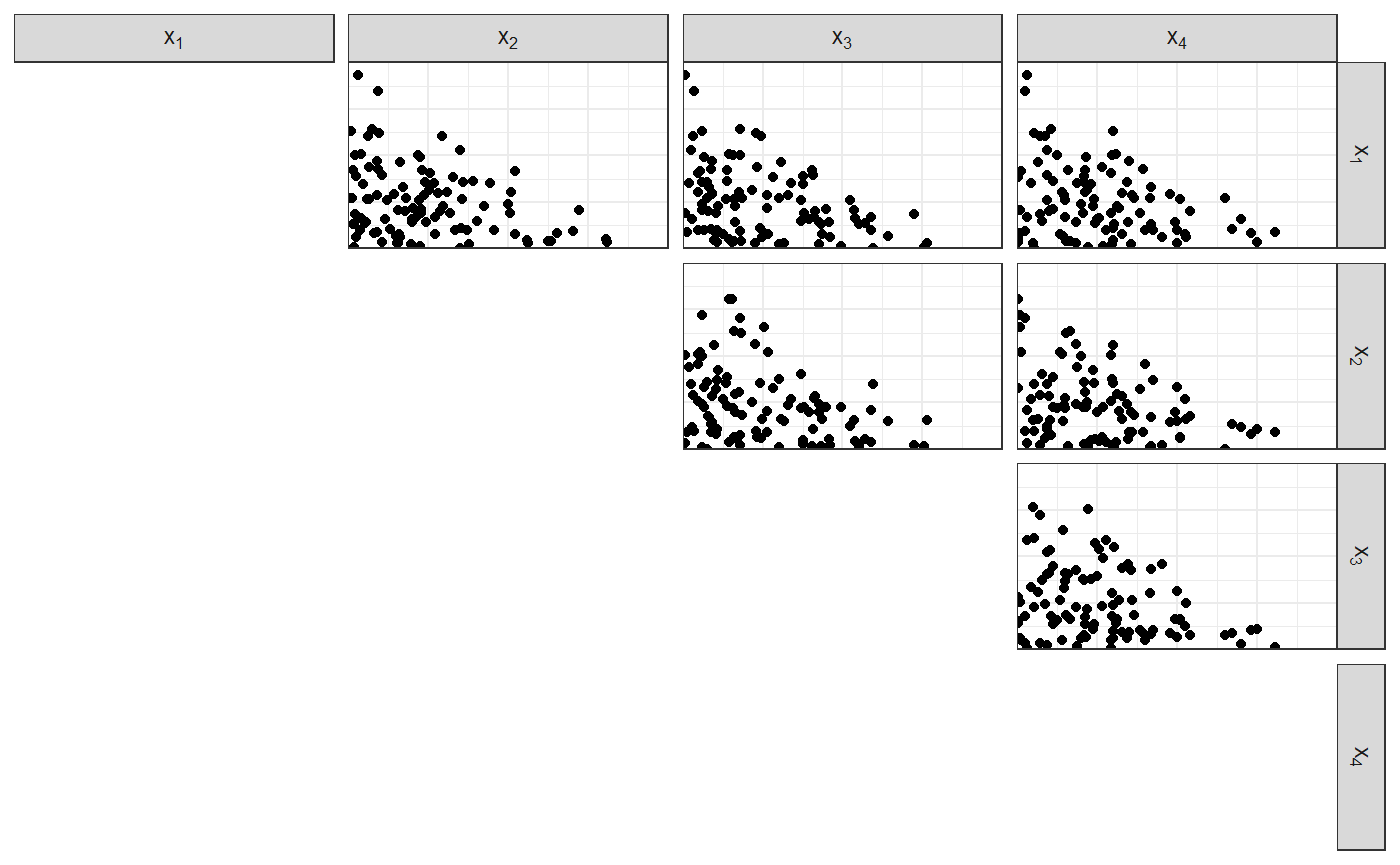
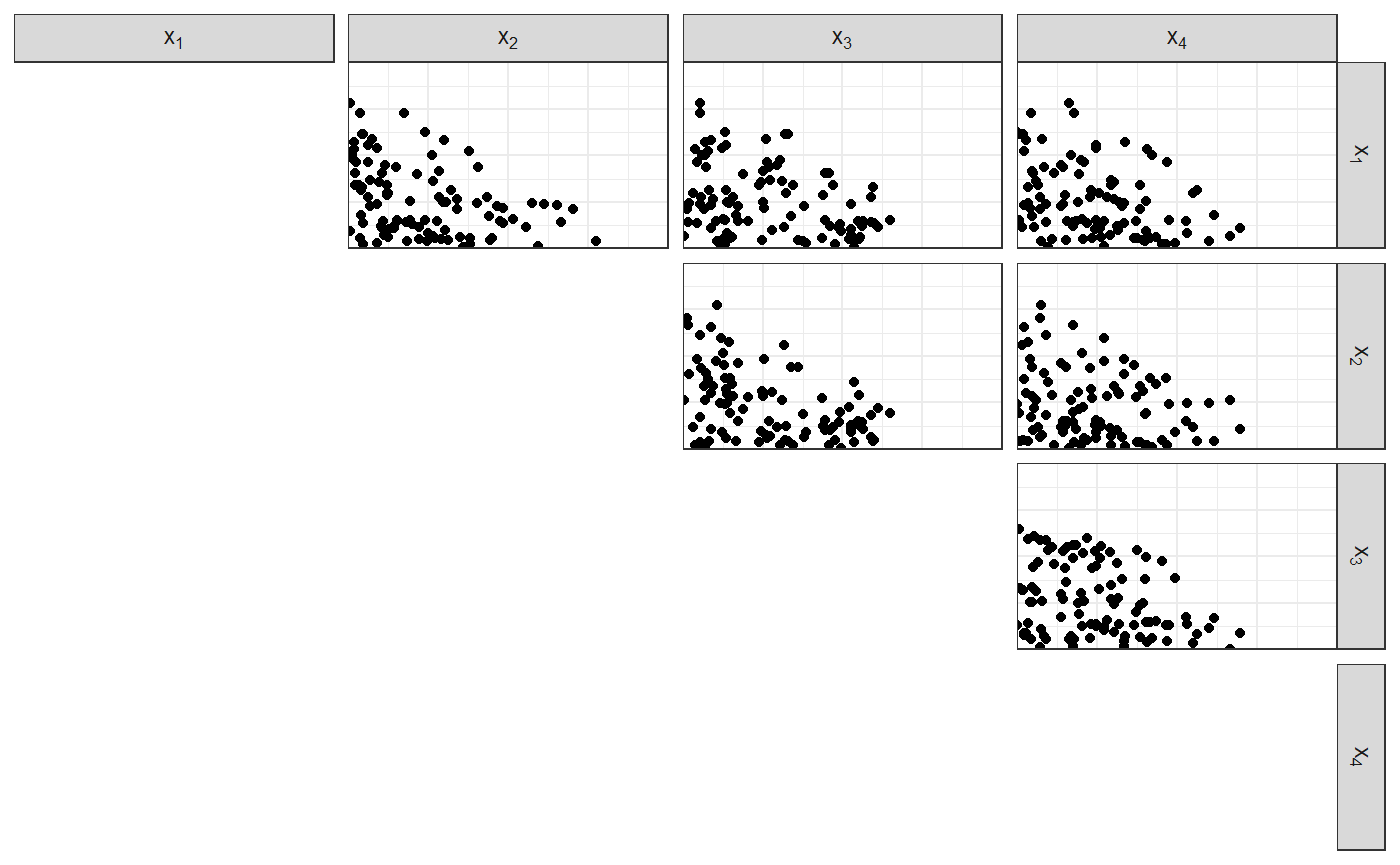
Finished updating vignette.

diff --git a/docs/articles/dirichletdirichlet-study.html b/docs/articles/dirichletdirichlet-study.html
@@ -89,7 +89,7 @@
       <h1>Dirichlet-Dirichlet study generation</h1>
                         <h4 class="author">Lorenzo Gaborini</h4>
             
-            <h4 class="date">2019-01-25</h4>
+            <h4 class="date">2019-01-26</h4>
       
       <small class="dont-index">Source: <a href="https://github.com/lgaborini/rsamplestudy/blob/master/vignettes/dirichletdirichlet-study.Rmd"><code>vignettes/dirichletdirichlet-study.Rmd</code></a></small>
       <div class="hidden name"><code>dirichletdirichlet-study.Rmd</code></div>
@@ -143,24 +143,24 @@ This vignette describes the Dirichlet-Dirichlet model.</p>
 <p>Notice that the hyperparameter is sampled, too (but it can be fixed).</p>
 <div class="sourceCode" id="cb2"><pre class="sourceCode r"><code class="sourceCode r"><a class="sourceLine" id="cb2-1" title="1"><span class="kw"><a href="https://www.rdocumentation.org/packages/utils/topics/head">head</a></span>(list_pop<span class="op">$</span>df_pop)</a>
 <a class="sourceLine" id="cb2-2" title="2"><span class="co">#&gt; # A tibble: 6 x 5</span></a>
-<a class="sourceLine" id="cb2-3" title="3"><span class="co">#&gt;   source `x[1]` `x[2]`   `x[3]`   `x[4]`</span></a>
-<a class="sourceLine" id="cb2-4" title="4"><span class="co">#&gt;    &lt;int&gt;  &lt;dbl&gt;  &lt;dbl&gt;    &lt;dbl&gt;    &lt;dbl&gt;</span></a>
-<a class="sourceLine" id="cb2-5" title="5"><span class="co">#&gt; 1      1      0  1.000 4.93e-17 2.21e-10</span></a>
-<a class="sourceLine" id="cb2-6" title="6"><span class="co">#&gt; 2      1      0  0.973 2.69e- 2 0.      </span></a>
-<a class="sourceLine" id="cb2-7" title="7"><span class="co">#&gt; 3      1      0  1.000 2.31e-12 0.      </span></a>
-<a class="sourceLine" id="cb2-8" title="8"><span class="co">#&gt; 4      1      0  1.000 3.26e- 6 0.      </span></a>
-<a class="sourceLine" id="cb2-9" title="9"><span class="co">#&gt; 5      1      0  0.450 5.50e- 1 0.      </span></a>
-<a class="sourceLine" id="cb2-10" title="10"><span class="co">#&gt; 6      1      0  1     2.53e-19 0.</span></a>
+<a class="sourceLine" id="cb2-3" title="3"><span class="co">#&gt;   source   `x[1]`   `x[2]` `x[3]` `x[4]`</span></a>
+<a class="sourceLine" id="cb2-4" title="4"><span class="co">#&gt;    &lt;int&gt;    &lt;dbl&gt;    &lt;dbl&gt;  &lt;dbl&gt;  &lt;dbl&gt;</span></a>
+<a class="sourceLine" id="cb2-5" title="5"><span class="co">#&gt; 1      1 1.56e-11 0.101     0.899      0</span></a>
+<a class="sourceLine" id="cb2-6" title="6"><span class="co">#&gt; 2      1 1.23e- 5 0.273     0.727      0</span></a>
+<a class="sourceLine" id="cb2-7" title="7"><span class="co">#&gt; 3      1 6.34e- 7 0.0700    0.930      0</span></a>
+<a class="sourceLine" id="cb2-8" title="8"><span class="co">#&gt; 4      1 1.59e- 4 0.000150  1.000      0</span></a>
+<a class="sourceLine" id="cb2-9" title="9"><span class="co">#&gt; 5      1 8.93e- 1 0.000673  0.106      0</span></a>
+<a class="sourceLine" id="cb2-10" title="10"><span class="co">#&gt; 6      1 3.75e- 5 0.612     0.388      0</span></a>
 <a class="sourceLine" id="cb2-11" title="11"><span class="kw"><a href="https://www.rdocumentation.org/packages/utils/topics/head">head</a></span>(list_pop<span class="op">$</span>df_sources)</a>
 <a class="sourceLine" id="cb2-12" title="12"><span class="co">#&gt; # A tibble: 6 x 5</span></a>
-<a class="sourceLine" id="cb2-13" title="13"><span class="co">#&gt;   source   `theta[1]` `theta[2]` `theta[3]` `theta[4]`</span></a>
-<a class="sourceLine" id="cb2-14" title="14"><span class="co">#&gt;    &lt;int&gt;        &lt;dbl&gt;      &lt;dbl&gt;      &lt;dbl&gt;      &lt;dbl&gt;</span></a>
-<a class="sourceLine" id="cb2-15" title="15"><span class="co">#&gt; 1      1 0.0000000839    0.937     0.0625    0.0000895</span></a>
-<a class="sourceLine" id="cb2-16" title="16"><span class="co">#&gt; 2      2 0.328           0.658     0.000180  0.0135   </span></a>
-<a class="sourceLine" id="cb2-17" title="17"><span class="co">#&gt; 3      3 0.00240         0.00178   0.180     0.815    </span></a>
-<a class="sourceLine" id="cb2-18" title="18"><span class="co">#&gt; 4      4 0.0769          0.200     0.00502   0.718    </span></a>
-<a class="sourceLine" id="cb2-19" title="19"><span class="co">#&gt; 5      5 0.297           0.0176    0.232     0.454    </span></a>
-<a class="sourceLine" id="cb2-20" title="20"><span class="co">#&gt; 6      6 0.0000816       0.330     0.670     0.0000264</span></a></code></pre></div>
+<a class="sourceLine" id="cb2-13" title="13"><span class="co">#&gt;   source `theta[1]` `theta[2]` `theta[3]`  `theta[4]`</span></a>
+<a class="sourceLine" id="cb2-14" title="14"><span class="co">#&gt;    &lt;int&gt;      &lt;dbl&gt;      &lt;dbl&gt;      &lt;dbl&gt;       &lt;dbl&gt;</span></a>
+<a class="sourceLine" id="cb2-15" title="15"><span class="co">#&gt; 1      1  0.0945       0.213      0.693   0.000165   </span></a>
+<a class="sourceLine" id="cb2-16" title="16"><span class="co">#&gt; 2      2  0.0242       0.00908    0.967   0.000000843</span></a>
+<a class="sourceLine" id="cb2-17" title="17"><span class="co">#&gt; 3      3  0.0000997    0.595      0.386   0.0188     </span></a>
+<a class="sourceLine" id="cb2-18" title="18"><span class="co">#&gt; 4      4  0.00448      0.172      0.824   0.00000151 </span></a>
+<a class="sourceLine" id="cb2-19" title="19"><span class="co">#&gt; 5      5  0.00946      0.988      0.00260 0.00000246 </span></a>
+<a class="sourceLine" id="cb2-20" title="20"><span class="co">#&gt; 6      6  0.0716       0.0278     0.877   0.0232</span></a></code></pre></div>
 </div>
 <div id="hyperparameters" class="section level2">
 <h2 class="hasAnchor">
@@ -187,33 +187,33 @@ This is generically done using <code>make_dataset_splits</code>:</p>
 <a class="sourceLine" id="cb4-8" title="8"><span class="co">#&gt; [5] "df_questioned"  "df_background"</span></a></code></pre></div>
 <div class="sourceCode" id="cb5"><pre class="sourceCode r"><code class="sourceCode r"><a class="sourceLine" id="cb5-1" title="1"><span class="kw"><a href="https://www.rdocumentation.org/packages/utils/topics/head">head</a></span>(list_samples<span class="op">$</span>df_reference)</a>
 <a class="sourceLine" id="cb5-2" title="2"><span class="co">#&gt; # A tibble: 6 x 5</span></a>
-<a class="sourceLine" id="cb5-3" title="3"><span class="co">#&gt;   source    `x[1]` `x[2]`   `x[3]`        `x[4]`</span></a>
-<a class="sourceLine" id="cb5-4" title="4"><span class="co">#&gt;    &lt;int&gt;     &lt;dbl&gt;  &lt;dbl&gt;    &lt;dbl&gt;         &lt;dbl&gt;</span></a>
-<a class="sourceLine" id="cb5-5" title="5"><span class="co">#&gt; 1     19 7.68e-213  0.994 4.85e-32 0.00573      </span></a>
-<a class="sourceLine" id="cb5-6" title="6"><span class="co">#&gt; 2     19 1.41e-140  0.995 1.36e-42 0.00460      </span></a>
-<a class="sourceLine" id="cb5-7" title="7"><span class="co">#&gt; 3     19 6.58e-182  0.986 3.30e-28 0.0136       </span></a>
-<a class="sourceLine" id="cb5-8" title="8"><span class="co">#&gt; 4     19 0.         1.000 4.68e-22 0.0000965    </span></a>
-<a class="sourceLine" id="cb5-9" title="9"><span class="co">#&gt; 5     19 5.17e- 54  0.929 1.61e-28 0.0707       </span></a>
-<a class="sourceLine" id="cb5-10" title="10"><span class="co">#&gt; 6     19 1.98e-179  1.000 1.59e-11 0.00000000735</span></a>
+<a class="sourceLine" id="cb5-3" title="3"><span class="co">#&gt;   source  `x[1]`    `x[2]` `x[3]`    `x[4]`</span></a>
+<a class="sourceLine" id="cb5-4" title="4"><span class="co">#&gt;    &lt;int&gt;   &lt;dbl&gt;     &lt;dbl&gt;  &lt;dbl&gt;     &lt;dbl&gt;</span></a>
+<a class="sourceLine" id="cb5-5" title="5"><span class="co">#&gt; 1     13 0.149   9.13e-  5  0.825 0.0263   </span></a>
+<a class="sourceLine" id="cb5-6" title="6"><span class="co">#&gt; 2     13 0.360   4.50e-201  0.585 0.0542   </span></a>
+<a class="sourceLine" id="cb5-7" title="7"><span class="co">#&gt; 3     13 0.271   6.14e- 11  0.729 0.000356 </span></a>
+<a class="sourceLine" id="cb5-8" title="8"><span class="co">#&gt; 4     13 0.00334 3.55e- 79  0.652 0.345    </span></a>
+<a class="sourceLine" id="cb5-9" title="9"><span class="co">#&gt; 5     13 0.263   7.32e-141  0.732 0.00489  </span></a>
+<a class="sourceLine" id="cb5-10" title="10"><span class="co">#&gt; 6     13 0.116   5.35e- 41  0.884 0.0000553</span></a>
 <a class="sourceLine" id="cb5-11" title="11"><span class="kw"><a href="https://www.rdocumentation.org/packages/utils/topics/head">head</a></span>(list_samples<span class="op">$</span>df_questioned)</a>
 <a class="sourceLine" id="cb5-12" title="12"><span class="co">#&gt; # A tibble: 5 x 5</span></a>
-<a class="sourceLine" id="cb5-13" title="13"><span class="co">#&gt;   source   `x[1]`   `x[2]` `x[3]`   `x[4]`</span></a>
-<a class="sourceLine" id="cb5-14" title="14"><span class="co">#&gt;    &lt;int&gt;    &lt;dbl&gt;    &lt;dbl&gt;  &lt;dbl&gt;    &lt;dbl&gt;</span></a>
-<a class="sourceLine" id="cb5-15" title="15"><span class="co">#&gt; 1      8 4.11e- 1 9.62e- 3 0.579  0.000472</span></a>
-<a class="sourceLine" id="cb5-16" title="16"><span class="co">#&gt; 2     13 8.51e- 2 1.45e- 7 0.0390 0.876   </span></a>
-<a class="sourceLine" id="cb5-17" title="17"><span class="co">#&gt; 3     13 4.20e- 1 1.63e-28 0.578  0.00230 </span></a>
-<a class="sourceLine" id="cb5-18" title="18"><span class="co">#&gt; 4     17 1.05e- 1 6.15e- 2 0      0.834   </span></a>
-<a class="sourceLine" id="cb5-19" title="19"><span class="co">#&gt; 5     18 5.58e-33 2.96e- 1 0.704  0</span></a>
+<a class="sourceLine" id="cb5-13" title="13"><span class="co">#&gt;   source   `x[1]`    `x[2]`    `x[3]` `x[4]`</span></a>
+<a class="sourceLine" id="cb5-14" title="14"><span class="co">#&gt;    &lt;int&gt;    &lt;dbl&gt;     &lt;dbl&gt;     &lt;dbl&gt;  &lt;dbl&gt;</span></a>
+<a class="sourceLine" id="cb5-15" title="15"><span class="co">#&gt; 1      4 1.13e-74  4.13e- 6 10.00e- 1  0    </span></a>
+<a class="sourceLine" id="cb5-16" title="16"><span class="co">#&gt; 2      5 5.10e- 8 10.00e- 1  2.52e-38  0    </span></a>
+<a class="sourceLine" id="cb5-17" title="17"><span class="co">#&gt; 3     14 1.02e- 6  3.37e- 2  9.66e- 1  0    </span></a>
+<a class="sourceLine" id="cb5-18" title="18"><span class="co">#&gt; 4     15 0.        3.22e-71  8.07e- 1  0.193</span></a>
+<a class="sourceLine" id="cb5-19" title="19"><span class="co">#&gt; 5     19 9.99e- 1  9.49e-44  8.86e- 4  0</span></a>
 <a class="sourceLine" id="cb5-20" title="20"><span class="kw"><a href="https://www.rdocumentation.org/packages/utils/topics/head">head</a></span>(list_samples<span class="op">$</span>df_background)</a>
 <a class="sourceLine" id="cb5-21" title="21"><span class="co">#&gt; # A tibble: 6 x 5</span></a>
-<a class="sourceLine" id="cb5-22" title="22"><span class="co">#&gt;   source `x[1]` `x[2]`   `x[3]`   `x[4]`</span></a>
-<a class="sourceLine" id="cb5-23" title="23"><span class="co">#&gt;    &lt;int&gt;  &lt;dbl&gt;  &lt;dbl&gt;    &lt;dbl&gt;    &lt;dbl&gt;</span></a>
-<a class="sourceLine" id="cb5-24" title="24"><span class="co">#&gt; 1      1      0  1.000 4.93e-17 2.21e-10</span></a>
-<a class="sourceLine" id="cb5-25" title="25"><span class="co">#&gt; 2      1      0  0.973 2.69e- 2 0.      </span></a>
-<a class="sourceLine" id="cb5-26" title="26"><span class="co">#&gt; 3      1      0  1.000 2.31e-12 0.      </span></a>
-<a class="sourceLine" id="cb5-27" title="27"><span class="co">#&gt; 4      1      0  1.000 3.26e- 6 0.      </span></a>
-<a class="sourceLine" id="cb5-28" title="28"><span class="co">#&gt; 5      1      0  0.450 5.50e- 1 0.      </span></a>
-<a class="sourceLine" id="cb5-29" title="29"><span class="co">#&gt; 6      1      0  1     2.53e-19 0.</span></a></code></pre></div>
+<a class="sourceLine" id="cb5-22" title="22"><span class="co">#&gt;   source   `x[1]`   `x[2]` `x[3]` `x[4]`</span></a>
+<a class="sourceLine" id="cb5-23" title="23"><span class="co">#&gt;    &lt;int&gt;    &lt;dbl&gt;    &lt;dbl&gt;  &lt;dbl&gt;  &lt;dbl&gt;</span></a>
+<a class="sourceLine" id="cb5-24" title="24"><span class="co">#&gt; 1      1 1.56e-11 0.101     0.899      0</span></a>
+<a class="sourceLine" id="cb5-25" title="25"><span class="co">#&gt; 2      1 1.23e- 5 0.273     0.727      0</span></a>
+<a class="sourceLine" id="cb5-26" title="26"><span class="co">#&gt; 3      1 6.34e- 7 0.0700    0.930      0</span></a>
+<a class="sourceLine" id="cb5-27" title="27"><span class="co">#&gt; 4      1 1.59e- 4 0.000150  1.000      0</span></a>
+<a class="sourceLine" id="cb5-28" title="28"><span class="co">#&gt; 5      1 8.93e- 1 0.000673  0.106      0</span></a>
+<a class="sourceLine" id="cb5-29" title="29"><span class="co">#&gt; 6      1 3.75e- 5 0.612     0.388      0</span></a></code></pre></div>
 <div id="source-parameters" class="section level3">
 <h3 class="hasAnchor">
 <a href="#source-parameters" class="anchor"></a>Source parameters</h3>

diff --git a/docs/articles/dirichlet-distribution.html b/docs/articles/dirichlet-distribution.html
@@ -89,7 +89,7 @@
       <h1>Dirichlet distribution tools</h1>
                         <h4 class="author">Lorenzo Gaborini</h4>
             
-            <h4 class="date">2019-01-25</h4>
+            <h4 class="date">2019-01-26</h4>
       
       <small class="dont-index">Source: <a href="https://github.com/lgaborini/rsamplestudy/blob/master/vignettes/dirichlet-distribution.Rmd"><code>vignettes/dirichlet-distribution.Rmd</code></a></small>
       <div class="hidden name"><code>dirichlet-distribution.Rmd</code></div>
@@ -151,14 +151,14 @@ In other words, <span class="math inline">\(\boldsymbol{X} \in \text{Simplex}{(p
 <div class="sourceCode" id="cb2"><pre class="sourceCode r"><code class="sourceCode r"><a class="sourceLine" id="cb2-1" title="1">df_diri &lt;-<span class="st"> </span><span class="kw"><a href="../reference/fun_rdirichlet.html">fun_rdirichlet</a></span>(n, alpha)</a>
 <a class="sourceLine" id="cb2-2" title="2"><span class="kw"><a href="https://www.rdocumentation.org/packages/utils/topics/head">head</a></span>(df_diri)</a>
 <a class="sourceLine" id="cb2-3" title="3"><span class="co">#&gt; # A tibble: 6 x 4</span></a>
-<a class="sourceLine" id="cb2-4" title="4"><span class="co">#&gt;    `x[1]`   `x[2]` `x[3]`   `x[4]`</span></a>
-<a class="sourceLine" id="cb2-5" title="5"><span class="co">#&gt;     &lt;dbl&gt;    &lt;dbl&gt;  &lt;dbl&gt;    &lt;dbl&gt;</span></a>
-<a class="sourceLine" id="cb2-6" title="6"><span class="co">#&gt; 1 0.0319  2.45e- 1  0.714 9.39e- 3</span></a>
-<a class="sourceLine" id="cb2-7" title="7"><span class="co">#&gt; 2 0.0960  1.14e- 8  0.875 2.93e- 2</span></a>
-<a class="sourceLine" id="cb2-8" title="8"><span class="co">#&gt; 3 0.0348  4.09e- 4  0.965 2.28e- 9</span></a>
-<a class="sourceLine" id="cb2-9" title="9"><span class="co">#&gt; 4 0.00991 2.11e-20  0.990 2.73e-10</span></a>
-<a class="sourceLine" id="cb2-10" title="10"><span class="co">#&gt; 5 0.316   7.30e-12  0.684 4.34e- 8</span></a>
-<a class="sourceLine" id="cb2-11" title="11"><span class="co">#&gt; 6 0.0510  3.72e- 7  0.949 1.02e- 4</span></a></code></pre></div>
+<a class="sourceLine" id="cb2-4" title="4"><span class="co">#&gt;     `x[1]`   `x[2]` `x[3]`   `x[4]`</span></a>
+<a class="sourceLine" id="cb2-5" title="5"><span class="co">#&gt;      &lt;dbl&gt;    &lt;dbl&gt;  &lt;dbl&gt;    &lt;dbl&gt;</span></a>
+<a class="sourceLine" id="cb2-6" title="6"><span class="co">#&gt; 1 0.117    7.54e-14  0.652 2.31e- 1</span></a>
+<a class="sourceLine" id="cb2-7" title="7"><span class="co">#&gt; 2 0.00419  7.90e- 4  0.995 1.99e-23</span></a>
+<a class="sourceLine" id="cb2-8" title="8"><span class="co">#&gt; 3 0.000347 4.85e- 8  0.975 2.42e- 2</span></a>
+<a class="sourceLine" id="cb2-9" title="9"><span class="co">#&gt; 4 0.00716  4.98e-10  0.993 2.23e- 7</span></a>
+<a class="sourceLine" id="cb2-10" title="10"><span class="co">#&gt; 5 0.0800   3.57e- 3  0.501 4.15e- 1</span></a>
+<a class="sourceLine" id="cb2-11" title="11"><span class="co">#&gt; 6 0.185    1.94e- 2  0.783 1.29e- 2</span></a></code></pre></div>
 <pre><code>#&gt; Loading required namespace: GGally</code></pre>
 <p><img src="dirichlet-distribution_files/figure-html/sym-sens-plot-comp-1.png" width="700"></p>
 <div id="uniform-sampling" class="section level3">
@@ -172,14 +172,14 @@ In other words, <span class="math inline">\(\boldsymbol{X} \in \text{Simplex}{(p
 <div class="sourceCode" id="cb5"><pre class="sourceCode r"><code class="sourceCode r"><a class="sourceLine" id="cb5-1" title="1">df_diri &lt;-<span class="st"> </span><span class="kw"><a href="../reference/fun_rdirichlet.html">fun_rdirichlet</a></span>(n, alpha)</a>
 <a class="sourceLine" id="cb5-2" title="2"><span class="kw"><a href="https://www.rdocumentation.org/packages/utils/topics/head">head</a></span>(df_diri)</a>
 <a class="sourceLine" id="cb5-3" title="3"><span class="co">#&gt; # A tibble: 6 x 4</span></a>
-<a class="sourceLine" id="cb5-4" title="4"><span class="co">#&gt;   `x[1]`   `x[2]` `x[3]` `x[4]`</span></a>
-<a class="sourceLine" id="cb5-5" title="5"><span class="co">#&gt;    &lt;dbl&gt;    &lt;dbl&gt;  &lt;dbl&gt;  &lt;dbl&gt;</span></a>
-<a class="sourceLine" id="cb5-6" title="6"><span class="co">#&gt; 1 0.0989 0.332    0.0673  0.501</span></a>
-<a class="sourceLine" id="cb5-7" title="7"><span class="co">#&gt; 2 0.0211 0.196    0.427   0.357</span></a>
-<a class="sourceLine" id="cb5-8" title="8"><span class="co">#&gt; 3 0.0990 0.370    0.106   0.425</span></a>
-<a class="sourceLine" id="cb5-9" title="9"><span class="co">#&gt; 4 0.157  0.115    0.0286  0.700</span></a>
-<a class="sourceLine" id="cb5-10" title="10"><span class="co">#&gt; 5 0.0969 0.0357   0.588   0.279</span></a>
-<a class="sourceLine" id="cb5-11" title="11"><span class="co">#&gt; 6 0.270  0.000200 0.0774  0.652</span></a></code></pre></div>
+<a class="sourceLine" id="cb5-4" title="4"><span class="co">#&gt;   `x[1]` `x[2]` `x[3]` `x[4]`</span></a>
+<a class="sourceLine" id="cb5-5" title="5"><span class="co">#&gt;    &lt;dbl&gt;  &lt;dbl&gt;  &lt;dbl&gt;  &lt;dbl&gt;</span></a>
+<a class="sourceLine" id="cb5-6" title="6"><span class="co">#&gt; 1 0.0737 0.110   0.525 0.291 </span></a>
+<a class="sourceLine" id="cb5-7" title="7"><span class="co">#&gt; 2 0.289  0.122   0.438 0.151 </span></a>
+<a class="sourceLine" id="cb5-8" title="8"><span class="co">#&gt; 3 0.251  0.305   0.252 0.192 </span></a>
+<a class="sourceLine" id="cb5-9" title="9"><span class="co">#&gt; 4 0.113  0.220   0.612 0.0548</span></a>
+<a class="sourceLine" id="cb5-10" title="10"><span class="co">#&gt; 5 0.614  0.0461  0.320 0.0195</span></a>
+<a class="sourceLine" id="cb5-11" title="11"><span class="co">#&gt; 6 0.403  0.104   0.444 0.0494</span></a></code></pre></div>
 <div class="sourceCode" id="cb6"><pre class="sourceCode r"><code class="sourceCode r"><a class="sourceLine" id="cb6-1" title="1"><span class="kw">scatter_matrix_simplex</span>(df_diri)</a></code></pre></div>
 <p><img src="dirichlet-distribution_files/figure-html/unnamed-chunk-5-1.png" width="700"></p>
 </div>
@@ -196,12 +196,12 @@ In other words, <span class="math inline">\(\boldsymbol{X} \in \text{Simplex}{(p
 <a class="sourceLine" id="cb8-3" title="3"><span class="co">#&gt; # A tibble: 6 x 4</span></a>
 <a class="sourceLine" id="cb8-4" title="4"><span class="co">#&gt;   `x[1]` `x[2]` `x[3]` `x[4]`</span></a>
 <a class="sourceLine" id="cb8-5" title="5"><span class="co">#&gt;    &lt;dbl&gt;  &lt;dbl&gt;  &lt;dbl&gt;  &lt;dbl&gt;</span></a>
-<a class="sourceLine" id="cb8-6" title="6"><span class="co">#&gt; 1  0.233  0.276  0.221  0.270</span></a>
-<a class="sourceLine" id="cb8-7" title="7"><span class="co">#&gt; 2  0.270  0.265  0.249  0.216</span></a>
-<a class="sourceLine" id="cb8-8" title="8"><span class="co">#&gt; 3  0.215  0.258  0.244  0.282</span></a>
-<a class="sourceLine" id="cb8-9" title="9"><span class="co">#&gt; 4  0.360  0.233  0.231  0.176</span></a>
-<a class="sourceLine" id="cb8-10" title="10"><span class="co">#&gt; 5  0.257  0.261  0.250  0.232</span></a>
-<a class="sourceLine" id="cb8-11" title="11"><span class="co">#&gt; 6  0.265  0.224  0.270  0.240</span></a></code></pre></div>
+<a class="sourceLine" id="cb8-6" title="6"><span class="co">#&gt; 1  0.319  0.244  0.205  0.232</span></a>
+<a class="sourceLine" id="cb8-7" title="7"><span class="co">#&gt; 2  0.251  0.238  0.258  0.253</span></a>
+<a class="sourceLine" id="cb8-8" title="8"><span class="co">#&gt; 3  0.256  0.263  0.234  0.247</span></a>
+<a class="sourceLine" id="cb8-9" title="9"><span class="co">#&gt; 4  0.195  0.305  0.235  0.264</span></a>
+<a class="sourceLine" id="cb8-10" title="10"><span class="co">#&gt; 5  0.194  0.302  0.271  0.234</span></a>
+<a class="sourceLine" id="cb8-11" title="11"><span class="co">#&gt; 6  0.240  0.264  0.229  0.267</span></a></code></pre></div>
 <div class="sourceCode" id="cb9"><pre class="sourceCode r"><code class="sourceCode r"><a class="sourceLine" id="cb9-1" title="1"><span class="kw">scatter_matrix_simplex</span>(df_diri)</a></code></pre></div>
 <p><img src="dirichlet-distribution_files/figure-html/unnamed-chunk-8-1.png" width="700"></p>
 </div>
@@ -216,15 +216,26 @@ In other words, <span class="math inline">\(\boldsymbol{X} \in \text{Simplex}{(p
 <div class="sourceCode" id="cb11"><pre class="sourceCode r"><code class="sourceCode r"><a class="sourceLine" id="cb11-1" title="1">df_diri &lt;-<span class="st"> </span><span class="kw"><a href="../reference/fun_rdirichlet.html">fun_rdirichlet</a></span>(n, alpha)</a>
 <a class="sourceLine" id="cb11-2" title="2"><span class="kw"><a href="https://www.rdocumentation.org/packages/utils/topics/head">head</a></span>(df_diri)</a>
 <a class="sourceLine" id="cb11-3" title="3"><span class="co">#&gt; # A tibble: 6 x 4</span></a>
-<a class="sourceLine" id="cb11-4" title="4"><span class="co">#&gt;       `x[1]`    `x[2]`    `x[3]`    `x[4]`</span></a>
-<a class="sourceLine" id="cb11-5" title="5"><span class="co">#&gt;        &lt;dbl&gt;     &lt;dbl&gt;     &lt;dbl&gt;     &lt;dbl&gt;</span></a>
-<a class="sourceLine" id="cb11-6" title="6"><span class="co">#&gt; 1  2.77e-270 10.00e- 1 3.24e-  9 3.65e-128</span></a>
-<a class="sourceLine" id="cb11-7" title="7"><span class="co">#&gt; 2 10.00e-  1  8.14e-12 1.98e- 64 3.65e- 33</span></a>
-<a class="sourceLine" id="cb11-8" title="8"><span class="co">#&gt; 3  1.00e+  0  2.81e-51 1.53e-263 2.55e- 82</span></a>
-<a class="sourceLine" id="cb11-9" title="9"><span class="co">#&gt; 4  1.00e+  0  4.97e-88 1.10e-125 2.35e- 92</span></a>
-<a class="sourceLine" id="cb11-10" title="10"><span class="co">#&gt; 5  1.00e+  0  0.       3.61e- 27 1.62e-240</span></a>
-<a class="sourceLine" id="cb11-11" title="11"><span class="co">#&gt; 6  1.48e- 66  1.00e+ 0 1.57e- 68 0.</span></a></code></pre></div>
-<div class="sourceCode" id="cb12"><pre class="sourceCode r"><code class="sourceCode r"><a class="sourceLine" id="cb12-1" title="1"><span class="kw">scatter_matrix_simplex</span>(df_diri)</a></code></pre></div>
+<a class="sourceLine" id="cb11-4" title="4"><span class="co">#&gt;      `x[1]`   `x[2]`     `x[3]`    `x[4]`</span></a>
+<a class="sourceLine" id="cb11-5" title="5"><span class="co">#&gt;       &lt;dbl&gt;    &lt;dbl&gt;      &lt;dbl&gt;     &lt;dbl&gt;</span></a>
+<a class="sourceLine" id="cb11-6" title="6"><span class="co">#&gt; 1 0.        0.        1.00e+  0 0.       </span></a>
+<a class="sourceLine" id="cb11-7" title="7"><span class="co">#&gt; 2 7.08e-105 2.52e-74  1.00e+  0 7.01e- 22</span></a>
+<a class="sourceLine" id="cb11-8" title="8"><span class="co">#&gt; 3 3.60e- 28 1.51e-42  0.        1.00e+  0</span></a>
+<a class="sourceLine" id="cb11-9" title="9"><span class="co">#&gt; 4 1.00e+  0 2.51e-80  1.14e-170 1.62e-208</span></a>
+<a class="sourceLine" id="cb11-10" title="10"><span class="co">#&gt; 5 0.        0.       10.00e-  1 1.47e- 13</span></a>
+<a class="sourceLine" id="cb11-11" title="11"><span class="co">#&gt; 6 1.75e-106 1.00e+ 0  1.02e- 32 0.</span></a></code></pre></div>
+<div class="sourceCode" id="cb12"><pre class="sourceCode r"><code class="sourceCode r"><a class="sourceLine" id="cb12-1" title="1"><span class="kw">scatter_matrix_simplex</span>(df_diri)</a>
+<a class="sourceLine" id="cb12-2" title="2"><span class="co">#&gt; Warning: Removed 1 rows containing missing values (geom_point).</span></a>
+<a class="sourceLine" id="cb12-3" title="3"></a>
+<a class="sourceLine" id="cb12-4" title="4"><span class="co">#&gt; Warning: Removed 1 rows containing missing values (geom_point).</span></a>
+<a class="sourceLine" id="cb12-5" title="5"></a>
+<a class="sourceLine" id="cb12-6" title="6"><span class="co">#&gt; Warning: Removed 1 rows containing missing values (geom_point).</span></a>
+<a class="sourceLine" id="cb12-7" title="7"></a>
+<a class="sourceLine" id="cb12-8" title="8"><span class="co">#&gt; Warning: Removed 1 rows containing missing values (geom_point).</span></a>
+<a class="sourceLine" id="cb12-9" title="9"></a>
+<a class="sourceLine" id="cb12-10" title="10"><span class="co">#&gt; Warning: Removed 1 rows containing missing values (geom_point).</span></a>
+<a class="sourceLine" id="cb12-11" title="11"></a>
+<a class="sourceLine" id="cb12-12" title="12"><span class="co">#&gt; Warning: Removed 1 rows containing missing values (geom_point).</span></a></code></pre></div>
 <p><img src="dirichlet-distribution_files/figure-html/unnamed-chunk-11-1.png" width="700"></p>
 </div>
 </div>

diff --git a/docs/articles/sampling_study.html b/docs/articles/sampling_study.html
@@ -89,7 +89,7 @@
       <h1>Sampling: reference and questioned items</h1>
                         <h4 class="author">Lorenzo Gaborini</h4>
             
-            <h4 class="date">2019-01-25</h4>
+            <h4 class="date">2019-01-26</h4>
       
       <small class="dont-index">Source: <a href="https://github.com/lgaborini/rsamplestudy/blob/master/vignettes/sampling_study.Rmd"><code>vignettes/sampling_study.Rmd</code></a></small>
       <div class="hidden name"><code>sampling_study.Rmd</code></div>
@@ -106,6 +106,7 @@
 The <span class="math inline">\(j\)</span>-th observation from the <span class="math inline">\(i\)</span>-th source is indicated with <span class="math inline">\(X_{ij}\)</span>. In total, we have <span class="math inline">\(m\)</span> sources, <span class="math inline">\(n_i\)</span> observations per source.</p>
 <p>The general model for the data is:</p>
 <p><span class="math display">\[X_{ij} \sim f(\theta_i) \quad \text{iid } j = 1, ..., n_i \]</span></p>
+<p>where <span class="math inline">\(\theta_i\)</span> are parameters that characterise uniquely the <span class="math inline">\(i\)</span>-th source.</p>
 <p>For the purpose of illustration, let’s use the popular dataset <code>chickwts</code>:</p>
 <div class="sourceCode" id="cb1"><pre class="sourceCode r"><code class="sourceCode r"><a class="sourceLine" id="cb1-1" title="1"><span class="kw"><a href="https://www.rdocumentation.org/packages/utils/topics/data">data</a></span>(chickwts)</a>
 <a class="sourceLine" id="cb1-2" title="2"><span class="kw"><a href="https://www.rdocumentation.org/packages/utils/topics/head">head</a></span>(chickwts)</a>
@@ -126,13 +127,14 @@ The <span class="math inline">\(j\)</span>-th observation from the <span class="
 These hypotheses are usually named <span class="math inline">\(H_1\)</span> and <span class="math inline">\(H_2\)</span>. Notice that <span class="math inline">\(H_2\)</span> can consider a single alternative source, or multiple sources: all of them are unknown and different from the reference one.</p>
 <p>This package assists with the generation of the reference and questioned set starting from the observed data.frame.</p>
 <p>The dimensions of the reference and questioned sets can be specified, and are usually much smaller than the full data.<br>
-It follows that the rows which have not been picked constitute a third set, the <strong>background set</strong>.<br>
-This set is used in a Bayesian setting to learn the (hyper)priors for the statistical model.</p>
+It follows that (a subset of) the rows which have not been picked constitute a third set, the <strong>background set</strong>.</p>
+<p>This set is used in a Bayesian setting to learn the (hyper)priors for the statistical model.</p>
 </div>
 <div id="sample-generation" class="section level2">
 <h2 class="hasAnchor">
 <a href="#sample-generation" class="anchor"></a>Sample generation</h2>
-<p>To connect with the example, we consider <code>horsebean</code> feed as the reference source. From the full data, we pick 5 observations to constitute each one of the reference and questioned sets. Let’s see how <code>rsamplestudy</code> does it:</p>
+<p>To connect with the example, we consider <code>horsebean</code> feed as the reference source.<br>
+From the full data, we pick 5 observations to constitute each one of the reference and questioned sets. Let’s see how <code>rsamplestudy</code> does it:</p>
 <div class="sourceCode" id="cb2"><pre class="sourceCode r"><code class="sourceCode r"><a class="sourceLine" id="cb2-1" title="1"><span class="kw"><a href="https://www.rdocumentation.org/packages/base/topics/Random">set.seed</a></span>(<span class="dv">123</span>)</a>
 <a class="sourceLine" id="cb2-2" title="2"></a>
 <a class="sourceLine" id="cb2-3" title="3"><span class="kw"><a href="https://www.rdocumentation.org/packages/base/topics/library">library</a></span>(rsamplestudy)</a>
@@ -386,9 +388,12 @@ It may be explicitely allowed to pick multiple times an item <strong>in</strong>
 <div id="background-selection" class="section level3">
 <h3 class="hasAnchor">
 <a href="#background-selection" class="anchor"></a>Background selection</h3>
-<p>The background set can be constituted in two ways depending if the <strong>potential sampled sources</strong> (i.e. sources whose items <em>could</em> appear either in the reference or in the questioned set) are excluded or not.</p>
-<p><code>make_dataset_splits</code> accepts the parameter <code>background</code> which can take two values:</p>
-<p><code>'outside'</code> (default): the potential observed sources may appear in the background dataset.</p>
+<p>The background set can be automatically constituted in three ways depending if the <strong>potential sampled sources</strong> (i.e. sources whose items <em>could</em> appear either in the reference or in the questioned set) are excluded or not.</p>
+<p><code>make_dataset_splits</code> accepts the parameter <code>background</code> which can take three values:</p>
+<ol style="list-style-type: decimal">
+<li>
+<code>background = 'outside'</code> (default): the potential observed sources may appear in the background dataset.</li>
+</ol>
 <div class="sourceCode" id="cb7"><pre class="sourceCode r"><code class="sourceCode r"><a class="sourceLine" id="cb7-1" title="1"><span class="kw"><a href="https://www.rdocumentation.org/packages/base/topics/Random">set.seed</a></span>(<span class="dv">123</span>)</a>
 <a class="sourceLine" id="cb7-2" title="2">list_split &lt;-<span class="st"> </span><span class="kw"><a href="../reference/make_dataset_splits.html">make_dataset_splits</a></span>(chickwts, <span class="dt">k_ref =</span> n_items, <span class="dt">k_quest =</span> n_items, <span class="dt">col_source =</span> <span class="st">'feed'</span>, <span class="dt">source_ref =</span> <span class="st">'horsebean'</span>,</a>
 <a class="sourceLine" id="cb7-3" title="3">                                  <span class="dt">background =</span> <span class="st">'outside'</span>)</a>
@@ -405,8 +410,12 @@ It may be explicitely allowed to pick multiple times an item <strong>in</strong>
 <a class="sourceLine" id="cb7-14" title="14"><span class="kw"><a href="https://www.rdocumentation.org/packages/base/topics/unique">unique</a></span>(list_split<span class="op">$</span>df_background<span class="op">$</span>feed)</a>
 <a class="sourceLine" id="cb7-15" title="15"><span class="co">#&gt; [1] horsebean linseed   soybean   sunflower meatmeal  casein   </span></a>
 <a class="sourceLine" id="cb7-16" title="16"><span class="co">#&gt; Levels: casein horsebean linseed meatmeal soybean sunflower</span></a></code></pre></div>
-<p><code>'others'</code>: the potential observed sources cannot appear in the background set.</p>
-<p>Notice that if the potential sources span the entire available sources, than the background dataset must be empty. It is the case when the questioned source is not specified, as it is automatically considered to be “all but the reference source”.</p>
+<ol start="2" style="list-style-type: decimal">
+<li>
+<code>background = 'others'</code>: the potential observed sources cannot appear in the background set.</li>
+</ol>
+<p>Notice that if the potential sources span the entire available sources, than the background dataset must be empty.<br>
+It is the case when the questioned source is not specified, as it is automatically considered to be “all but the reference source”.</p>
 <div class="sourceCode" id="cb8"><pre class="sourceCode r"><code class="sourceCode r"><a class="sourceLine" id="cb8-1" title="1"><span class="kw"><a href="https://www.rdocumentation.org/packages/base/topics/Random">set.seed</a></span>(<span class="dv">123</span>)</a>
 <a class="sourceLine" id="cb8-2" title="2">list_split &lt;-<span class="st"> </span><span class="kw"><a href="../reference/make_dataset_splits.html">make_dataset_splits</a></span>(chickwts, <span class="dt">k_ref =</span> n_items, <span class="dt">k_quest =</span> n_items, <span class="dt">col_source =</span> <span class="st">'feed'</span>, </a>
 <a class="sourceLine" id="cb8-3" title="3">                                  <span class="dt">source_ref =</span> <span class="st">'horsebean'</span>, <span class="dt">source_quest =</span> <span class="ot">NULL</span>,</a>
@@ -444,6 +453,28 @@ It may be explicitely allowed to pick multiple times an item <strong>in</strong>
 <a class="sourceLine" id="cb9-15" title="15"><span class="kw"><a href="https://www.rdocumentation.org/packages/base/topics/unique">unique</a></span>(list_split<span class="op">$</span>df_background<span class="op">$</span>feed)</a>
 <a class="sourceLine" id="cb9-16" title="16"><span class="co">#&gt; [1] linseed   sunflower meatmeal  casein   </span></a>
 <a class="sourceLine" id="cb9-17" title="17"><span class="co">#&gt; Levels: casein horsebean linseed meatmeal soybean sunflower</span></a></code></pre></div>
+<ol start="3" style="list-style-type: decimal">
+<li>
+<code>background = 'unobserved'</code>: the observed sources (i.e. sources whose items have been sampled, either in the reference or in the questioned set) cannot appear in the background set.</li>
+</ol>
+<p>Notice that previous example is no longer an error, as long as at least one source has never been observed:</p>
+<div class="sourceCode" id="cb10"><pre class="sourceCode r"><code class="sourceCode r"><a class="sourceLine" id="cb10-1" title="1"><span class="kw"><a href="https://www.rdocumentation.org/packages/base/topics/Random">set.seed</a></span>(<span class="dv">123</span>)</a>
+<a class="sourceLine" id="cb10-2" title="2">list_split &lt;-<span class="st"> </span><span class="kw"><a href="../reference/make_dataset_splits.html">make_dataset_splits</a></span>(chickwts, <span class="dt">k_ref =</span> n_items, <span class="dt">k_quest =</span> n_items, <span class="dt">col_source =</span> <span class="st">'feed'</span>, </a>
+<a class="sourceLine" id="cb10-3" title="3">                                  <span class="dt">source_ref =</span> <span class="st">'horsebean'</span>, <span class="dt">source_quest =</span> <span class="ot">NULL</span>,</a>
+<a class="sourceLine" id="cb10-4" title="4">                                  <span class="dt">background =</span> <span class="st">'unobserved'</span>)</a>
+<a class="sourceLine" id="cb10-5" title="5"></a>
+<a class="sourceLine" id="cb10-6" title="6"><span class="co"># Observed reference source</span></a>
+<a class="sourceLine" id="cb10-7" title="7"><span class="kw"><a href="https://www.rdocumentation.org/packages/base/topics/unique">unique</a></span>(list_split<span class="op">$</span>df_reference<span class="op">$</span>feed)</a>
+<a class="sourceLine" id="cb10-8" title="8"><span class="co">#&gt; [1] horsebean</span></a>
+<a class="sourceLine" id="cb10-9" title="9"><span class="co">#&gt; Levels: casein horsebean linseed meatmeal soybean sunflower</span></a>
+<a class="sourceLine" id="cb10-10" title="10"><span class="co"># Observed questioned sources</span></a>
+<a class="sourceLine" id="cb10-11" title="11"><span class="kw"><a href="https://www.rdocumentation.org/packages/base/topics/unique">unique</a></span>(list_split<span class="op">$</span>df_questioned<span class="op">$</span>feed)</a>
+<a class="sourceLine" id="cb10-12" title="12"><span class="co">#&gt; [1] linseed   sunflower casein   </span></a>
+<a class="sourceLine" id="cb10-13" title="13"><span class="co">#&gt; Levels: casein horsebean linseed meatmeal soybean sunflower</span></a>
+<a class="sourceLine" id="cb10-14" title="14"><span class="co"># Sources in background</span></a>
+<a class="sourceLine" id="cb10-15" title="15"><span class="kw"><a href="https://www.rdocumentation.org/packages/base/topics/unique">unique</a></span>(list_split<span class="op">$</span>df_background<span class="op">$</span>feed)</a>
+<a class="sourceLine" id="cb10-16" title="16"><span class="co">#&gt; [1] soybean  meatmeal</span></a>
+<a class="sourceLine" id="cb10-17" title="17"><span class="co">#&gt; Levels: casein horsebean linseed meatmeal soybean sunflower</span></a></code></pre></div>
 </div>
 </div>
   </div>

diff --git a/docs/reference/make_dataset_splits.html b/docs/reference/make_dataset_splits.html
@@ -182,7 +182,7 @@ The split is done according by the item source.</p>
 <li><p>If <code>background</code> is <code>'outside'</code>, the background dataset comprises all items who <strong>do not lie</strong> in any of the reference and questioned sets.
 It can contain items from reference and questioned sources.</p></li>
 <li><p>If <code>background</code> is <code>'others'</code>, the background dataset comprises all items from the <strong>non</strong>-reference and <strong>non</strong>-questioned <strong>potential sources</strong>.</p></li>
-<li><p>If <code>background</code> is <code>'unobserved'</code>, the background dataset comprises all items from the sources who do not appear in any of the he reference and questioned sets.</p></li>
+<li><p>If <code>background</code> is <code>'unobserved'</code>, the background dataset comprises all items from the sources who do not appear in any of the reference and questioned sets.</p></li>
 </ul>
     <p>By default, <code>background</code> is <code>'outside'</code>.</p>
 <p>Notice that <code>background = 'others'</code> generates no background data if questioned sources are not specified:

diff --git a/docs/reference/make_idx_splits.html b/docs/reference/make_idx_splits.html
@@ -199,7 +199,7 @@
 <li><p>If <code>background</code> is <code>'outside'</code>, the background dataset comprises all items who <strong>do not lie</strong> in any of the reference and questioned sets.
 It can contain items from reference and questioned sources.</p></li>
 <li><p>If <code>background</code> is <code>'others'</code>, the background dataset comprises all items from the <strong>non</strong>-reference and <strong>non</strong>-questioned <strong>potential sources</strong>.</p></li>
-<li><p>If <code>background</code> is <code>'unobserved'</code>, the background dataset comprises all items from the sources who do not appear in any of the he reference and questioned sets.</p></li>
+<li><p>If <code>background</code> is <code>'unobserved'</code>, the background dataset comprises all items from the sources who do not appear in any of the reference and questioned sets.</p></li>
 </ul>
     <p>By default, <code>background</code> is <code>'outside'</code>.</p>
 <p>Notice that <code>background = 'others'</code> generates no background data if questioned sources are not specified:
